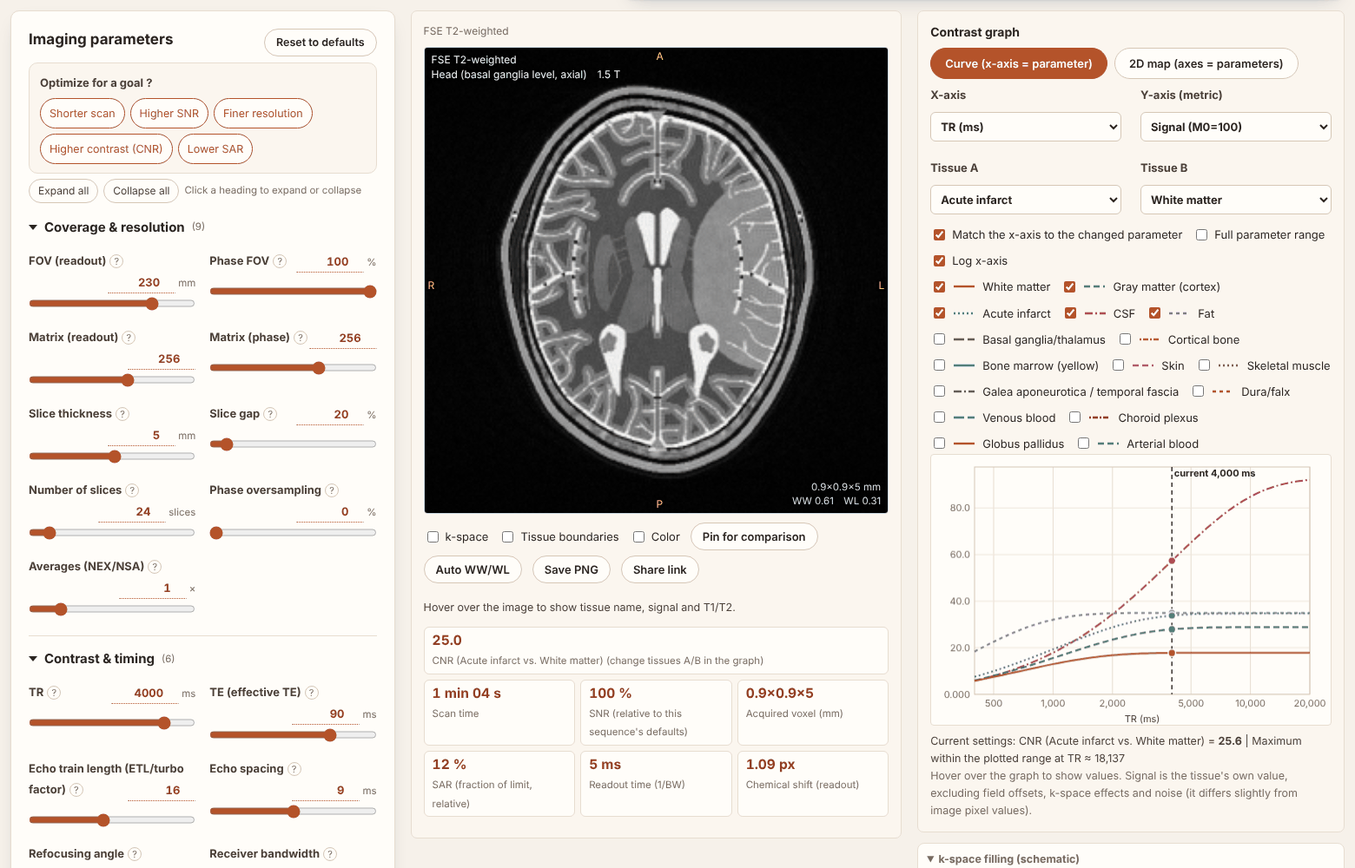
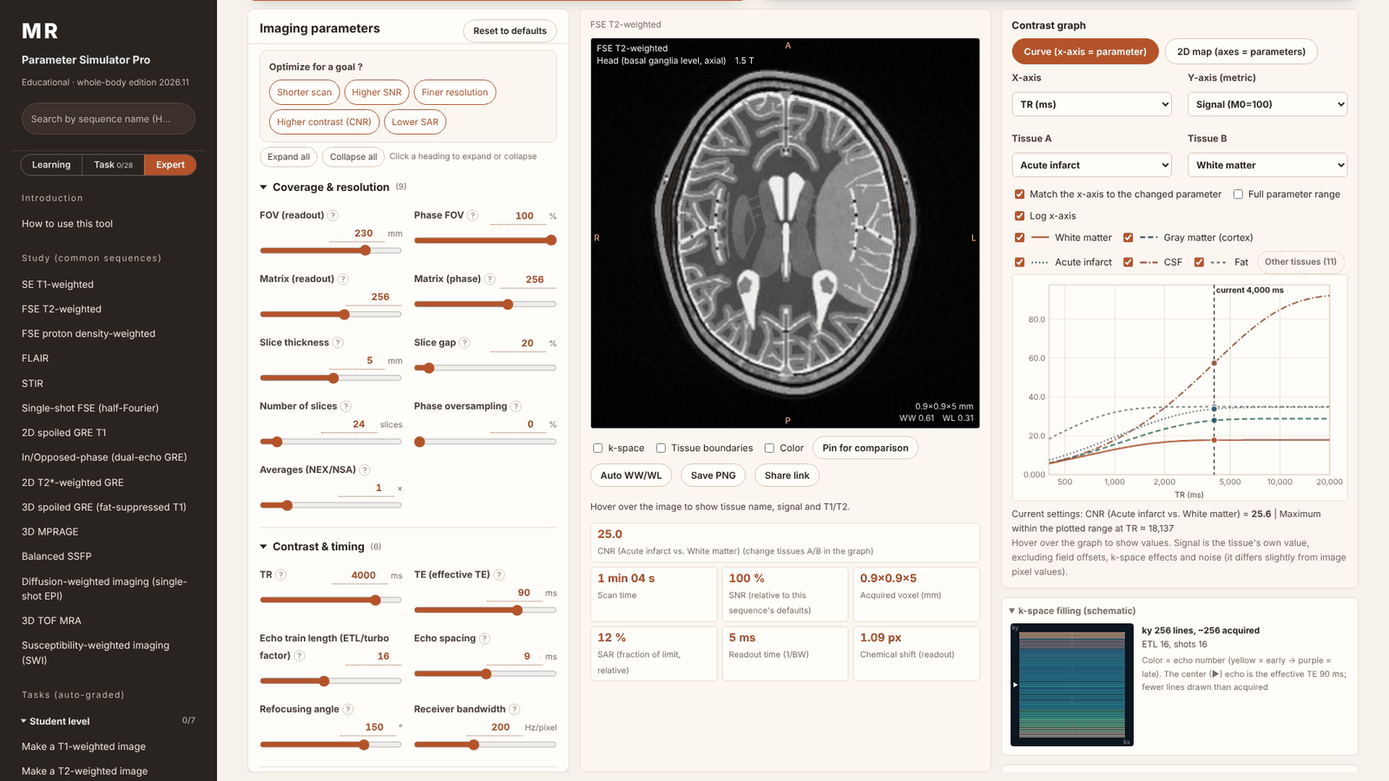
PC の画面を整理：パラメータ・画像・グラフを 1 画面のワークスペースに、上部をコンパクトに
- 幅 1200 px 以上・高さ 680 px 以上では、3 列が画面の高さぴったりに並び、列ごとにスクロール（右側の大きな空白をなくし、画像とグラフを常に表示）
- グラフの組織は選んだものだけ表示し、他は「他の組織（n件）」にたたむ
- 注意書きは見出しカードの下端に小さく、部位・病変カードの余白を詰める
- README のメイン画面のスクリーンショットを更新

Claude-Session: https://claude.ai/code/session_01BFr4Rqe7V4PB4mjcRbLySi

diff --git a/index.html b/index.html
@@ -735,6 +735,37 @@ body.mob .mlvsel button{font-size:11.5px;padding:3px 8px}
 .mqopts button.ng{text-decoration:line-through;opacity:.55}
 .mqfb{font-size:12.5px;margin:6px 0 2px} .mqfb.ok{color:var(--rt-ok,#17804a)} .mqfb.ng{color:var(--rt-danger,#b42318)}
 .sidebar .nav-btn .art{font-size:11px;margin-right:3px}
+
+/* ===== PC：ワークスペース（パラメータ・画像・グラフが 1 画面に収まり、列ごとにスクロール） ===== */
+#legend label.off{display:none} #legend.all label.off{display:inline-flex;opacity:.7}
+#legend .lgmore{border:1px dashed var(--rt-line-strong);background:transparent;border-radius:999px;padding:1px 10px;font-size:12px;color:var(--rt-muted);cursor:pointer}
+@media(min-width:1200px) and (min-height:680px){
+  body:not(.mob) .pro-grid{height:calc(100vh - 24px);align-items:stretch;gap:14px;scroll-margin-top:12px}
+  body:not(.mob) .pro-params{position:relative;height:100%;min-height:0;overflow:hidden;display:flex;flex-direction:column}
+  body:not(.mob) .pro-params>.sim-card{flex:1 1 auto;min-height:0;overflow:auto;margin:0}
+  body:not(.mob) .pro-out,body:not(.mob) .pro-chart{position:relative;top:auto;height:100%;max-height:none;min-height:0;overflow:auto}
+  body:not(.mob) .pro-params>.sim-card,body:not(.mob) .pro-out,body:not(.mob) .pro-chart{scrollbar-width:thin;scrollbar-color:var(--rt-line-strong) transparent}
+  body:not(.mob) .pro-out>.sim-output{min-height:100%;box-sizing:border-box}
+  body:not(.mob) .pro-params>.sim-card{padding:16px 16px 14px}
+  body:not(.mob) .pro-params>.sim-card>h2{position:sticky;top:-16px;z-index:3;background:var(--rt-surface);margin:-16px -16px 8px;padding:14px 16px 8px;border-bottom:1px solid var(--rt-line)}
+  body:not(.mob) .pro-out .sim-output{padding:12px 14px}
+  body:not(.mob) .pro-chart .sim-output{padding:12px 14px}
+  body:not(.mob) #v-sim>.notice{padding:5px 12px;margin-bottom:10px} body:not(.mob) #v-sim>.notice p{font-size:11.5px;line-height:1.5}
+  body:not(.mob) .pro-top>.sim-card,body:not(.mob) #v-sim>.chapter-header{box-sizing:border-box}
+}
+
+/* 注意書きは見出しカードの下端に小さく */
+.chapter-header .notice.inhero{background:transparent;border:0;border-top:1px solid rgba(255,255,255,.16);border-radius:0;padding:7px 0 0;margin:10px 0 0;box-shadow:none}
+.chapter-header .notice.inhero p{color:rgba(255,255,255,.72);font-size:11.5px;line-height:1.55;margin:0}
+.chapter-header .notice.inhero strong{color:rgba(255,255,255,.9)}
+@media(min-width:1200px){
+  body:not(.mob) #sim-setup .phlab{min-width:0;width:auto;text-align:left;font-size:11px;color:var(--rt-muted);margin-right:1px;font-weight:600}
+  body:not(.mob) #sim-setup .phchips{gap:4px 14px;margin:2px 0 6px}
+  body:not(.mob) #sim-setup .les{gap:1px 14px;margin:4px 0 0}
+  body:not(.mob) #sim-setup h2{margin-bottom:4px}
+  body:not(.mob) #v-sim .chapter-header{padding:13px 20px 11px}
+  body:not(.mob) #v-sim .chapter-header p{margin-bottom:2px}
+}
 #toast{position:fixed;left:50%;bottom:24px;transform:translateX(-50%) translateY(20px);background:var(--rt-ink,#1b2430);color:#fff;padding:9px 16px;border-radius:999px;font-size:13.5px;opacity:0;pointer-events:none;transition:all .2s;z-index:100}
 #toast.on{opacity:1;transform:translateX(-50%) translateY(0)}
 body.mob #toast{bottom:84px}
@@ -9462,9 +9493,10 @@ function buildChartUI(){ var box=$('#chartctl'); if(!box||!res) return; box.inne
   box.appendChild(cks);
   /* 曲線に出す組織 */
   chartColors();
-  if(chart.mode==='curve'){ var lg=el('div',{class:'vtools',id:'legend',style:'margin-top:4px'}); var shown=0; pr.forEach(function(x,i){ if(chart.hide[x.key]===undefined) chart.hide[x.key]=!(x.key===chart.A||x.key===chart.B||(shown<5&&!/^(skin|bone|dura|air|marrow_r|choroid|vessel_l)$/.test(x.key))); if(!chart.hide[x.key]) shown++; var lb=el('label'); var ci=el('input',{type:'checkbox'}); ci.checked=!chart.hide[x.key]; ci.onchange=function(){ chart.hide[x.key]=!ci.checked; drawChart(); }; lb.appendChild(ci); var sw=el('span',{class:'lgsw','aria-hidden':'true',html:'<svg width="26" height="8" viewBox="0 0 26 8"><line x1="1" y1="4" x2="25" y2="4" stroke="'+colorOf(x.key)+'" stroke-width="2.4" stroke-dasharray="'+dashOf(x.key).join(' ')+'"/></svg>'}); lb.appendChild(sw); lb.appendChild(document.createTextNode(x.n)); lg.appendChild(lb); }); box.appendChild(lg); }
+  if(chart.mode==='curve'){ var lg=el('div',{class:'vtools',id:'legend',style:'margin-top:4px'}); var shown=0; pr.forEach(function(x,i){ if(chart.hide[x.key]===undefined) chart.hide[x.key]=!(x.key===chart.A||x.key===chart.B||(shown<5&&!/^(skin|bone|dura|air|marrow_r|choroid|vessel_l)$/.test(x.key))); if(!chart.hide[x.key]) shown++; var lb=el('label',{class:chart.hide[x.key]?'off':''}); var ci=el('input',{type:'checkbox'}); ci.checked=!chart.hide[x.key]; ci.onchange=function(){ chart.hide[x.key]=!ci.checked; lb.className=ci.checked?'':'off'; drawChart(); }; lb.appendChild(ci); var sw=el('span',{class:'lgsw','aria-hidden':'true',html:'<svg width="26" height="8" viewBox="0 0 26 8"><line x1="1" y1="4" x2="25" y2="4" stroke="'+colorOf(x.key)+'" stroke-width="2.4" stroke-dasharray="'+dashOf(x.key).join(' ')+'"/></svg>'}); lb.appendChild(sw); lb.appendChild(document.createTextNode(x.n)); lg.appendChild(lb); }); var nOff=lg.querySelectorAll('label.off').length; if(nOff){ if(legendAll) lg.classList.add('all'); var tg=el('button',{type:'button',class:'lgmore','aria-expanded':String(!!legendAll)},legendAll?'他の組織をたたむ':'他の組織（'+nOff+'件）'); tg.onclick=function(){ legendAll=!legendAll; lg.classList.toggle('all',legendAll); tg.setAttribute('aria-expanded',String(legendAll)); tg.textContent=legendAll?'他の組織をたたむ':'他の組織（'+lg.querySelectorAll('label.off').length+'件）'; }; lg.appendChild(tg); } box.appendChild(lg); }
 }
 var DASHES=[[],[7,4],[2,3],[9,3,2,3],[4,4],[12,4],[2,2,6,2]]; function dashOf(k){ colorOf(k); return DASHES[colIdx[k]%DASHES.length]; }
+var legendAll=false;
 var colIdx={}; function colorOf(k){ if(colIdx[k]===undefined) colIdx[k]=Object.keys(colIdx).length; return PAL[colIdx[k]%PAL.length]; }
 function csel(name,opts,get,set){ var d=el('label',{class:'sim-control'}); d.appendChild(document.createTextNode(name)); var s=el('select'); opts.forEach(function(o){ var op=el('option',{value:o[0]},o[1]); if(String(get())===String(o[0])) op.selected=true; s.appendChild(op); }); s.onchange=function(){ set(s.value); }; d.appendChild(s); return d; }
 function chartSig(){ var c=JSON.parse(JSON.stringify(st)); [chart.xk,chart.mode==='map'?chart.yk:null].forEach(function(k){ if(!k) return; if(k==='b') c.p.bvals=''; else if(k==='dose') c.dose=0; else if(k==='B0') c.B0=0; else if(k==='hr') c.hr=0; else c.p[k]=0; }); return JSON.stringify(c)+'|'+cur+'|'+chart.mode+'|'+chart.full+'|'+JSON.stringify(chart.logk); }
@@ -9553,6 +9585,7 @@ function init(){ tables(); try{ if(window.top!==window) $('#save').hidden=true; 
   (function(){ var d=$('#psdbox'); if(d) d.addEventListener('toggle',function(){ if(d.open) psdDraw(); }); })();
   (function(){ var vt=document.querySelector('.pro-out .vtools'); if(!vt) return; var bc=el('button',{type:'button',id:'vchart','aria-pressed':'false'},'グラフを横に'); bc.onclick=toggleMini; vt.insertBefore(bc,vt.querySelector('#pin')); placeChart(); var b=el('button',{type:'button',id:'vmore','aria-expanded':'false'},'表示…'); b.onclick=function(){ var on=vt.classList.toggle('more'); b.setAttribute('aria-expanded',String(on)); }; vt.appendChild(b); })();
   (function(){ var w=$('#warns'); if(w) w.addEventListener('click',function(){ if(document.body.classList.contains('mob')) w.classList.toggle('open'); }); })();
+  (function(){ var n=document.querySelector('#v-sim>.notice'), h=document.querySelector('#v-sim>.chapter-header'); if(n&&h){ n.classList.add('inhero'); h.appendChild(n); } })();
   $('#share').onclick=function(){ syncHash(); var u=location.href; function done(){ toast('条件つきのリンクをコピーしました'); } try{ if(navigator.clipboard&&navigator.clipboard.writeText) navigator.clipboard.writeText(u).then(done,function(){ window.prompt('このリンクをコピーしてください',u); }); else window.prompt('このリンクをコピーしてください',u); }catch(e){ window.prompt('このリンクをコピーしてください',u); } };
   $('#save').onclick=function(){ var c=$('#stage canvas'); if(!c) return; var a=el('a',{href:c.toDataURL('image/png'),download:'mrisim_'+st.seq+'.png'}); document.body.appendChild(a); a.click(); a.remove(); };
   $('#menu').onclick=function(){ var v=$('#sidebar').classList.toggle('open'); $('#shade').classList.toggle('visible',v); $('#menu').setAttribute('aria-expanded',String(v)); };

diff --git a/zh.html b/zh.html
@@ -735,6 +735,37 @@ body.mob .mlvsel button{font-size:11.5px;padding:3px 8px}
 .mqopts button.ng{text-decoration:line-through;opacity:.55}
 .mqfb{font-size:12.5px;margin:6px 0 2px} .mqfb.ok{color:var(--rt-ok,#17804a)} .mqfb.ng{color:var(--rt-danger,#b42318)}
 .sidebar .nav-btn .art{font-size:11px;margin-right:3px}
+
+/* ===== PC：ワークスペース（パラメータ・画像・グラフが 1 画面に収まり、列ごとにスクロール） ===== */
+#legend label.off{display:none} #legend.all label.off{display:inline-flex;opacity:.7}
+#legend .lgmore{border:1px dashed var(--rt-line-strong);background:transparent;border-radius:999px;padding:1px 10px;font-size:12px;color:var(--rt-muted);cursor:pointer}
+@media(min-width:1200px) and (min-height:680px){
+  body:not(.mob) .pro-grid{height:calc(100vh - 24px);align-items:stretch;gap:14px;scroll-margin-top:12px}
+  body:not(.mob) .pro-params{position:relative;height:100%;min-height:0;overflow:hidden;display:flex;flex-direction:column}
+  body:not(.mob) .pro-params>.sim-card{flex:1 1 auto;min-height:0;overflow:auto;margin:0}
+  body:not(.mob) .pro-out,body:not(.mob) .pro-chart{position:relative;top:auto;height:100%;max-height:none;min-height:0;overflow:auto}
+  body:not(.mob) .pro-params>.sim-card,body:not(.mob) .pro-out,body:not(.mob) .pro-chart{scrollbar-width:thin;scrollbar-color:var(--rt-line-strong) transparent}
+  body:not(.mob) .pro-out>.sim-output{min-height:100%;box-sizing:border-box}
+  body:not(.mob) .pro-params>.sim-card{padding:16px 16px 14px}
+  body:not(.mob) .pro-params>.sim-card>h2{position:sticky;top:-16px;z-index:3;background:var(--rt-surface);margin:-16px -16px 8px;padding:14px 16px 8px;border-bottom:1px solid var(--rt-line)}
+  body:not(.mob) .pro-out .sim-output{padding:12px 14px}
+  body:not(.mob) .pro-chart .sim-output{padding:12px 14px}
+  body:not(.mob) #v-sim>.notice{padding:5px 12px;margin-bottom:10px} body:not(.mob) #v-sim>.notice p{font-size:11.5px;line-height:1.5}
+  body:not(.mob) .pro-top>.sim-card,body:not(.mob) #v-sim>.chapter-header{box-sizing:border-box}
+}
+
+/* 注意書きは見出しカードの下端に小さく */
+.chapter-header .notice.inhero{background:transparent;border:0;border-top:1px solid rgba(255,255,255,.16);border-radius:0;padding:7px 0 0;margin:10px 0 0;box-shadow:none}
+.chapter-header .notice.inhero p{color:rgba(255,255,255,.72);font-size:11.5px;line-height:1.55;margin:0}
+.chapter-header .notice.inhero strong{color:rgba(255,255,255,.9)}
+@media(min-width:1200px){
+  body:not(.mob) #sim-setup .phlab{min-width:0;width:auto;text-align:left;font-size:11px;color:var(--rt-muted);margin-right:1px;font-weight:600}
+  body:not(.mob) #sim-setup .phchips{gap:4px 14px;margin:2px 0 6px}
+  body:not(.mob) #sim-setup .les{gap:1px 14px;margin:4px 0 0}
+  body:not(.mob) #sim-setup h2{margin-bottom:4px}
+  body:not(.mob) #v-sim .chapter-header{padding:13px 20px 11px}
+  body:not(.mob) #v-sim .chapter-header p{margin-bottom:2px}
+}
 #toast{position:fixed;left:50%;bottom:24px;transform:translateX(-50%) translateY(20px);background:var(--rt-ink,#1b2430);color:#fff;padding:9px 16px;border-radius:999px;font-size:13.5px;opacity:0;pointer-events:none;transition:all .2s;z-index:100}
 #toast.on{opacity:1;transform:translateX(-50%) translateY(0)}
 body.mob #toast{bottom:84px}
@@ -9463,9 +9494,10 @@ function buildChartUI(){ var box=$('#chartctl'); if(!box||!res) return; box.inne
   box.appendChild(cks);
   /* 曲線に出す組織 */
   chartColors();
-  if(chart.mode==='curve'){ var lg=el('div',{class:'vtools',id:'legend',style:'margin-top:4px'}); var shown=0; pr.forEach(function(x,i){ if(chart.hide[x.key]===undefined) chart.hide[x.key]=!(x.key===chart.A||x.key===chart.B||(shown<5&&!/^(skin|bone|dura|air|marrow_r|choroid|vessel_l)$/.test(x.key))); if(!chart.hide[x.key]) shown++; var lb=el('label'); var ci=el('input',{type:'checkbox'}); ci.checked=!chart.hide[x.key]; ci.onchange=function(){ chart.hide[x.key]=!ci.checked; drawChart(); }; lb.appendChild(ci); var sw=el('span',{class:'lgsw','aria-hidden':'true',html:'<svg width="26" height="8" viewBox="0 0 26 8"><line x1="1" y1="4" x2="25" y2="4" stroke="'+colorOf(x.key)+'" stroke-width="2.4" stroke-dasharray="'+dashOf(x.key).join(' ')+'"/></svg>'}); lb.appendChild(sw); lb.appendChild(document.createTextNode(x.n)); lg.appendChild(lb); }); box.appendChild(lg); }
+  if(chart.mode==='curve'){ var lg=el('div',{class:'vtools',id:'legend',style:'margin-top:4px'}); var shown=0; pr.forEach(function(x,i){ if(chart.hide[x.key]===undefined) chart.hide[x.key]=!(x.key===chart.A||x.key===chart.B||(shown<5&&!/^(skin|bone|dura|air|marrow_r|choroid|vessel_l)$/.test(x.key))); if(!chart.hide[x.key]) shown++; var lb=el('label',{class:chart.hide[x.key]?'off':''}); var ci=el('input',{type:'checkbox'}); ci.checked=!chart.hide[x.key]; ci.onchange=function(){ chart.hide[x.key]=!ci.checked; lb.className=ci.checked?'':'off'; drawChart(); }; lb.appendChild(ci); var sw=el('span',{class:'lgsw','aria-hidden':'true',html:'<svg width="26" height="8" viewBox="0 0 26 8"><line x1="1" y1="4" x2="25" y2="4" stroke="'+colorOf(x.key)+'" stroke-width="2.4" stroke-dasharray="'+dashOf(x.key).join(' ')+'"/></svg>'}); lb.appendChild(sw); lb.appendChild(document.createTextNode(x.n)); lg.appendChild(lb); }); var nOff=lg.querySelectorAll('label.off').length; if(nOff){ if(legendAll) lg.classList.add('all'); var tg=el('button',{type:'button',class:'lgmore','aria-expanded':String(!!legendAll)},legendAll?'收起其他组织':'其他组织（'+nOff+'）'); tg.onclick=function(){ legendAll=!legendAll; lg.classList.toggle('all',legendAll); tg.setAttribute('aria-expanded',String(legendAll)); tg.textContent=legendAll?'收起其他组织':'其他组织（'+lg.querySelectorAll('label.off').length+'）'; }; lg.appendChild(tg); } box.appendChild(lg); }
 }
 var DASHES=[[],[7,4],[2,3],[9,3,2,3],[4,4],[12,4],[2,2,6,2]]; function dashOf(k){ colorOf(k); return DASHES[colIdx[k]%DASHES.length]; }
+var legendAll=false;
 var colIdx={}; function colorOf(k){ if(colIdx[k]===undefined) colIdx[k]=Object.keys(colIdx).length; return PAL[colIdx[k]%PAL.length]; }
 function csel(name,opts,get,set){ var d=el('label',{class:'sim-control'}); d.appendChild(document.createTextNode(name)); var s=el('select'); opts.forEach(function(o){ var op=el('option',{value:o[0]},o[1]); if(String(get())===String(o[0])) op.selected=true; s.appendChild(op); }); s.onchange=function(){ set(s.value); }; d.appendChild(s); return d; }
 function chartSig(){ var c=JSON.parse(JSON.stringify(st)); [chart.xk,chart.mode==='map'?chart.yk:null].forEach(function(k){ if(!k) return; if(k==='b') c.p.bvals=''; else if(k==='dose') c.dose=0; else if(k==='B0') c.B0=0; else if(k==='hr') c.hr=0; else c.p[k]=0; }); return JSON.stringify(c)+'|'+cur+'|'+chart.mode+'|'+chart.full+'|'+JSON.stringify(chart.logk); }
@@ -9554,6 +9586,7 @@ function init(){ tables(); try{ if(window.top!==window) $('#save').hidden=true; 
   (function(){ var d=$('#psdbox'); if(d) d.addEventListener('toggle',function(){ if(d.open) psdDraw(); }); })();
   (function(){ var vt=document.querySelector('.pro-out .vtools'); if(!vt) return; var bc=el('button',{type:'button',id:'vchart','aria-pressed':'false'},'图表放旁边'); bc.onclick=toggleMini; vt.insertBefore(bc,vt.querySelector('#pin')); placeChart(); var b=el('button',{type:'button',id:'vmore','aria-expanded':'false'},'显示…'); b.onclick=function(){ var on=vt.classList.toggle('more'); b.setAttribute('aria-expanded',String(on)); }; vt.appendChild(b); })();
   (function(){ var w=$('#warns'); if(w) w.addEventListener('click',function(){ if(document.body.classList.contains('mob')) w.classList.toggle('open'); }); })();
+  (function(){ var n=document.querySelector('#v-sim>.notice'), h=document.querySelector('#v-sim>.chapter-header'); if(n&&h){ n.classList.add('inhero'); h.appendChild(n); } })();
   $('#share').onclick=function(){ syncHash(); var u=location.href; function done(){ toast('已复制含当前条件的链接'); } try{ if(navigator.clipboard&&navigator.clipboard.writeText) navigator.clipboard.writeText(u).then(done,function(){ window.prompt('请复制此链接',u); }); else window.prompt('请复制此链接',u); }catch(e){ window.prompt('请复制此链接',u); } };
   $('#save').onclick=function(){ var c=$('#stage canvas'); if(!c) return; var a=el('a',{href:c.toDataURL('image/png'),download:'mrisim_'+st.seq+'.png'}); document.body.appendChild(a); a.click(); a.remove(); };
   $('#menu').onclick=function(){ var v=$('#sidebar').classList.toggle('open'); $('#shade').classList.toggle('visible',v); $('#menu').setAttribute('aria-expanded',String(v)); };

diff --git a/en.html b/en.html
@@ -735,6 +735,37 @@ body.mob .mlvsel button{font-size:11.5px;padding:3px 8px}
 .mqopts button.ng{text-decoration:line-through;opacity:.55}
 .mqfb{font-size:12.5px;margin:6px 0 2px} .mqfb.ok{color:var(--rt-ok,#17804a)} .mqfb.ng{color:var(--rt-danger,#b42318)}
 .sidebar .nav-btn .art{font-size:11px;margin-right:3px}
+
+/* ===== PC：ワークスペース（パラメータ・画像・グラフが 1 画面に収まり、列ごとにスクロール） ===== */
+#legend label.off{display:none} #legend.all label.off{display:inline-flex;opacity:.7}
+#legend .lgmore{border:1px dashed var(--rt-line-strong);background:transparent;border-radius:999px;padding:1px 10px;font-size:12px;color:var(--rt-muted);cursor:pointer}
+@media(min-width:1200px) and (min-height:680px){
+  body:not(.mob) .pro-grid{height:calc(100vh - 24px);align-items:stretch;gap:14px;scroll-margin-top:12px}
+  body:not(.mob) .pro-params{position:relative;height:100%;min-height:0;overflow:hidden;display:flex;flex-direction:column}
+  body:not(.mob) .pro-params>.sim-card{flex:1 1 auto;min-height:0;overflow:auto;margin:0}
+  body:not(.mob) .pro-out,body:not(.mob) .pro-chart{position:relative;top:auto;height:100%;max-height:none;min-height:0;overflow:auto}
+  body:not(.mob) .pro-params>.sim-card,body:not(.mob) .pro-out,body:not(.mob) .pro-chart{scrollbar-width:thin;scrollbar-color:var(--rt-line-strong) transparent}
+  body:not(.mob) .pro-out>.sim-output{min-height:100%;box-sizing:border-box}
+  body:not(.mob) .pro-params>.sim-card{padding:16px 16px 14px}
+  body:not(.mob) .pro-params>.sim-card>h2{position:sticky;top:-16px;z-index:3;background:var(--rt-surface);margin:-16px -16px 8px;padding:14px 16px 8px;border-bottom:1px solid var(--rt-line)}
+  body:not(.mob) .pro-out .sim-output{padding:12px 14px}
+  body:not(.mob) .pro-chart .sim-output{padding:12px 14px}
+  body:not(.mob) #v-sim>.notice{padding:5px 12px;margin-bottom:10px} body:not(.mob) #v-sim>.notice p{font-size:11.5px;line-height:1.5}
+  body:not(.mob) .pro-top>.sim-card,body:not(.mob) #v-sim>.chapter-header{box-sizing:border-box}
+}
+
+/* 注意書きは見出しカードの下端に小さく */
+.chapter-header .notice.inhero{background:transparent;border:0;border-top:1px solid rgba(255,255,255,.16);border-radius:0;padding:7px 0 0;margin:10px 0 0;box-shadow:none}
+.chapter-header .notice.inhero p{color:rgba(255,255,255,.72);font-size:11.5px;line-height:1.55;margin:0}
+.chapter-header .notice.inhero strong{color:rgba(255,255,255,.9)}
+@media(min-width:1200px){
+  body:not(.mob) #sim-setup .phlab{min-width:0;width:auto;text-align:left;font-size:11px;color:var(--rt-muted);margin-right:1px;font-weight:600}
+  body:not(.mob) #sim-setup .phchips{gap:4px 14px;margin:2px 0 6px}
+  body:not(.mob) #sim-setup .les{gap:1px 14px;margin:4px 0 0}
+  body:not(.mob) #sim-setup h2{margin-bottom:4px}
+  body:not(.mob) #v-sim .chapter-header{padding:13px 20px 11px}
+  body:not(.mob) #v-sim .chapter-header p{margin-bottom:2px}
+}
 #toast{position:fixed;left:50%;bottom:24px;transform:translateX(-50%) translateY(20px);background:var(--rt-ink,#1b2430);color:#fff;padding:9px 16px;border-radius:999px;font-size:13.5px;opacity:0;pointer-events:none;transition:all .2s;z-index:100}
 #toast.on{opacity:1;transform:translateX(-50%) translateY(0)}
 body.mob #toast{bottom:84px}
@@ -9463,9 +9494,10 @@ function buildChartUI(){ var box=$('#chartctl'); if(!box||!res) return; box.inne
   box.appendChild(cks);
   /* 曲線に出す組織 */
   chartColors();
-  if(chart.mode==='curve'){ var lg=el('div',{class:'vtools',id:'legend',style:'margin-top:4px'}); var shown=0; pr.forEach(function(x,i){ if(chart.hide[x.key]===undefined) chart.hide[x.key]=!(x.key===chart.A||x.key===chart.B||(shown<5&&!/^(skin|bone|dura|air|marrow_r|choroid|vessel_l)$/.test(x.key))); if(!chart.hide[x.key]) shown++; var lb=el('label'); var ci=el('input',{type:'checkbox'}); ci.checked=!chart.hide[x.key]; ci.onchange=function(){ chart.hide[x.key]=!ci.checked; drawChart(); }; lb.appendChild(ci); var sw=el('span',{class:'lgsw','aria-hidden':'true',html:'<svg width="26" height="8" viewBox="0 0 26 8"><line x1="1" y1="4" x2="25" y2="4" stroke="'+colorOf(x.key)+'" stroke-width="2.4" stroke-dasharray="'+dashOf(x.key).join(' ')+'"/></svg>'}); lb.appendChild(sw); lb.appendChild(document.createTextNode(x.n)); lg.appendChild(lb); }); box.appendChild(lg); }
+  if(chart.mode==='curve'){ var lg=el('div',{class:'vtools',id:'legend',style:'margin-top:4px'}); var shown=0; pr.forEach(function(x,i){ if(chart.hide[x.key]===undefined) chart.hide[x.key]=!(x.key===chart.A||x.key===chart.B||(shown<5&&!/^(skin|bone|dura|air|marrow_r|choroid|vessel_l)$/.test(x.key))); if(!chart.hide[x.key]) shown++; var lb=el('label',{class:chart.hide[x.key]?'off':''}); var ci=el('input',{type:'checkbox'}); ci.checked=!chart.hide[x.key]; ci.onchange=function(){ chart.hide[x.key]=!ci.checked; lb.className=ci.checked?'':'off'; drawChart(); }; lb.appendChild(ci); var sw=el('span',{class:'lgsw','aria-hidden':'true',html:'<svg width="26" height="8" viewBox="0 0 26 8"><line x1="1" y1="4" x2="25" y2="4" stroke="'+colorOf(x.key)+'" stroke-width="2.4" stroke-dasharray="'+dashOf(x.key).join(' ')+'"/></svg>'}); lb.appendChild(sw); lb.appendChild(document.createTextNode(x.n)); lg.appendChild(lb); }); var nOff=lg.querySelectorAll('label.off').length; if(nOff){ if(legendAll) lg.classList.add('all'); var tg=el('button',{type:'button',class:'lgmore','aria-expanded':String(!!legendAll)},legendAll?'Hide other tissues':'Other tissues ('+nOff+')'); tg.onclick=function(){ legendAll=!legendAll; lg.classList.toggle('all',legendAll); tg.setAttribute('aria-expanded',String(legendAll)); tg.textContent=legendAll?'Hide other tissues':'Other tissues ('+lg.querySelectorAll('label.off').length+')'; }; lg.appendChild(tg); } box.appendChild(lg); }
 }
 var DASHES=[[],[7,4],[2,3],[9,3,2,3],[4,4],[12,4],[2,2,6,2]]; function dashOf(k){ colorOf(k); return DASHES[colIdx[k]%DASHES.length]; }
+var legendAll=false;
 var colIdx={}; function colorOf(k){ if(colIdx[k]===undefined) colIdx[k]=Object.keys(colIdx).length; return PAL[colIdx[k]%PAL.length]; }
 function csel(name,opts,get,set){ var d=el('label',{class:'sim-control'}); d.appendChild(document.createTextNode(name)); var s=el('select'); opts.forEach(function(o){ var op=el('option',{value:o[0]},o[1]); if(String(get())===String(o[0])) op.selected=true; s.appendChild(op); }); s.onchange=function(){ set(s.value); }; d.appendChild(s); return d; }
 function chartSig(){ var c=JSON.parse(JSON.stringify(st)); [chart.xk,chart.mode==='map'?chart.yk:null].forEach(function(k){ if(!k) return; if(k==='b') c.p.bvals=''; else if(k==='dose') c.dose=0; else if(k==='B0') c.B0=0; else if(k==='hr') c.hr=0; else c.p[k]=0; }); return JSON.stringify(c)+'|'+cur+'|'+chart.mode+'|'+chart.full+'|'+JSON.stringify(chart.logk); }
@@ -9554,6 +9586,7 @@ function init(){ tables(); try{ if(window.top!==window) $('#save').hidden=true; 
   (function(){ var d=$('#psdbox'); if(d) d.addEventListener('toggle',function(){ if(d.open) psdDraw(); }); })();
   (function(){ var vt=document.querySelector('.pro-out .vtools'); if(!vt) return; var bc=el('button',{type:'button',id:'vchart','aria-pressed':'false'},'Chart beside'); bc.onclick=toggleMini; vt.insertBefore(bc,vt.querySelector('#pin')); placeChart(); var b=el('button',{type:'button',id:'vmore','aria-expanded':'false'},'View…'); b.onclick=function(){ var on=vt.classList.toggle('more'); b.setAttribute('aria-expanded',String(on)); }; vt.appendChild(b); })();
   (function(){ var w=$('#warns'); if(w) w.addEventListener('click',function(){ if(document.body.classList.contains('mob')) w.classList.toggle('open'); }); })();
+  (function(){ var n=document.querySelector('#v-sim>.notice'), h=document.querySelector('#v-sim>.chapter-header'); if(n&&h){ n.classList.add('inhero'); h.appendChild(n); } })();
   $('#share').onclick=function(){ syncHash(); var u=location.href; function done(){ toast('Link with current settings copied'); } try{ if(navigator.clipboard&&navigator.clipboard.writeText) navigator.clipboard.writeText(u).then(done,function(){ window.prompt('Copy this link',u); }); else window.prompt('Copy this link',u); }catch(e){ window.prompt('Copy this link',u); } };
   $('#save').onclick=function(){ var c=$('#stage canvas'); if(!c) return; var a=el('a',{href:c.toDataURL('image/png'),download:'mrisim_'+st.seq+'.png'}); document.body.appendChild(a); a.click(); a.remove(); };
   $('#menu').onclick=function(){ var v=$('#sidebar').classList.toggle('open'); $('#shade').classList.toggle('visible',v); $('#menu').setAttribute('aria-expanded',String(v)); };

diff --git a/src/ui.js b/src/ui.js
@@ -304,9 +304,10 @@ function buildChartUI(){ var box=$('#chartctl'); if(!box||!res) return; box.inne
   box.appendChild(cks);
   /* 曲線に出す組織 */
   chartColors();
-  if(chart.mode==='curve'){ var lg=el('div',{class:'vtools',id:'legend',style:'margin-top:4px'}); var shown=0; pr.forEach(function(x,i){ if(chart.hide[x.key]===undefined) chart.hide[x.key]=!(x.key===chart.A||x.key===chart.B||(shown<5&&!/^(skin|bone|dura|air|marrow_r|choroid|vessel_l)$/.test(x.key))); if(!chart.hide[x.key]) shown++; var lb=el('label'); var ci=el('input',{type:'checkbox'}); ci.checked=!chart.hide[x.key]; ci.onchange=function(){ chart.hide[x.key]=!ci.checked; drawChart(); }; lb.appendChild(ci); var sw=el('span',{class:'lgsw','aria-hidden':'true',html:'<svg width="26" height="8" viewBox="0 0 26 8"><line x1="1" y1="4" x2="25" y2="4" stroke="'+colorOf(x.key)+'" stroke-width="2.4" stroke-dasharray="'+dashOf(x.key).join(' ')+'"/></svg>'}); lb.appendChild(sw); lb.appendChild(document.createTextNode(x.n)); lg.appendChild(lb); }); box.appendChild(lg); }
+  if(chart.mode==='curve'){ var lg=el('div',{class:'vtools',id:'legend',style:'margin-top:4px'}); var shown=0; pr.forEach(function(x,i){ if(chart.hide[x.key]===undefined) chart.hide[x.key]=!(x.key===chart.A||x.key===chart.B||(shown<5&&!/^(skin|bone|dura|air|marrow_r|choroid|vessel_l)$/.test(x.key))); if(!chart.hide[x.key]) shown++; var lb=el('label',{class:chart.hide[x.key]?'off':''}); var ci=el('input',{type:'checkbox'}); ci.checked=!chart.hide[x.key]; ci.onchange=function(){ chart.hide[x.key]=!ci.checked; lb.className=ci.checked?'':'off'; drawChart(); }; lb.appendChild(ci); var sw=el('span',{class:'lgsw','aria-hidden':'true',html:'<svg width="26" height="8" viewBox="0 0 26 8"><line x1="1" y1="4" x2="25" y2="4" stroke="'+colorOf(x.key)+'" stroke-width="2.4" stroke-dasharray="'+dashOf(x.key).join(' ')+'"/></svg>'}); lb.appendChild(sw); lb.appendChild(document.createTextNode(x.n)); lg.appendChild(lb); }); var nOff=lg.querySelectorAll('label.off').length; if(nOff){ if(legendAll) lg.classList.add('all'); var tg=el('button',{type:'button',class:'lgmore','aria-expanded':String(!!legendAll)},legendAll?'他の組織をたたむ':'他の組織（'+nOff+'件）'); tg.onclick=function(){ legendAll=!legendAll; lg.classList.toggle('all',legendAll); tg.setAttribute('aria-expanded',String(legendAll)); tg.textContent=legendAll?'他の組織をたたむ':'他の組織（'+lg.querySelectorAll('label.off').length+'件）'; }; lg.appendChild(tg); } box.appendChild(lg); }
 }
 var DASHES=[[],[7,4],[2,3],[9,3,2,3],[4,4],[12,4],[2,2,6,2]]; function dashOf(k){ colorOf(k); return DASHES[colIdx[k]%DASHES.length]; }
+var legendAll=false;
 var colIdx={}; function colorOf(k){ if(colIdx[k]===undefined) colIdx[k]=Object.keys(colIdx).length; return PAL[colIdx[k]%PAL.length]; }
 function csel(name,opts,get,set){ var d=el('label',{class:'sim-control'}); d.appendChild(document.createTextNode(name)); var s=el('select'); opts.forEach(function(o){ var op=el('option',{value:o[0]},o[1]); if(String(get())===String(o[0])) op.selected=true; s.appendChild(op); }); s.onchange=function(){ set(s.value); }; d.appendChild(s); return d; }
 function chartSig(){ var c=JSON.parse(JSON.stringify(st)); [chart.xk,chart.mode==='map'?chart.yk:null].forEach(function(k){ if(!k) return; if(k==='b') c.p.bvals=''; else if(k==='dose') c.dose=0; else if(k==='B0') c.B0=0; else if(k==='hr') c.hr=0; else c.p[k]=0; }); return JSON.stringify(c)+'|'+cur+'|'+chart.mode+'|'+chart.full+'|'+JSON.stringify(chart.logk); }
@@ -395,6 +396,7 @@ function init(){ tables(); try{ if(window.top!==window) $('#save').hidden=true; 
   (function(){ var d=$('#psdbox'); if(d) d.addEventListener('toggle',function(){ if(d.open) psdDraw(); }); })();
   (function(){ var vt=document.querySelector('.pro-out .vtools'); if(!vt) return; var bc=el('button',{type:'button',id:'vchart','aria-pressed':'false'},'グラフを横に'); bc.onclick=toggleMini; vt.insertBefore(bc,vt.querySelector('#pin')); placeChart(); var b=el('button',{type:'button',id:'vmore','aria-expanded':'false'},'表示…'); b.onclick=function(){ var on=vt.classList.toggle('more'); b.setAttribute('aria-expanded',String(on)); }; vt.appendChild(b); })();
   (function(){ var w=$('#warns'); if(w) w.addEventListener('click',function(){ if(document.body.classList.contains('mob')) w.classList.toggle('open'); }); })();
+  (function(){ var n=document.querySelector('#v-sim>.notice'), h=document.querySelector('#v-sim>.chapter-header'); if(n&&h){ n.classList.add('inhero'); h.appendChild(n); } })();
   $('#share').onclick=function(){ syncHash(); var u=location.href; function done(){ toast('条件つきのリンクをコピーしました'); } try{ if(navigator.clipboard&&navigator.clipboard.writeText) navigator.clipboard.writeText(u).then(done,function(){ window.prompt('このリンクをコピーしてください',u); }); else window.prompt('このリンクをコピーしてください',u); }catch(e){ window.prompt('このリンクをコピーしてください',u); } };
   $('#save').onclick=function(){ var c=$('#stage canvas'); if(!c) return; var a=el('a',{href:c.toDataURL('image/png'),download:'mrisim_'+st.seq+'.png'}); document.body.appendChild(a); a.click(); a.remove(); };
   $('#menu').onclick=function(){ var v=$('#sidebar').classList.toggle('open'); $('#shade').classList.toggle('visible',v); $('#menu').setAttribute('aria-expanded',String(v)); };

diff --git a/src/ui.html b/src/ui.html
@@ -327,6 +327,37 @@ body.mob .mlvsel button{font-size:11.5px;padding:3px 8px}
 .mqopts button.ng{text-decoration:line-through;opacity:.55}
 .mqfb{font-size:12.5px;margin:6px 0 2px} .mqfb.ok{color:var(--rt-ok,#17804a)} .mqfb.ng{color:var(--rt-danger,#b42318)}
 .sidebar .nav-btn .art{font-size:11px;margin-right:3px}
+
+/* ===== PC：ワークスペース（パラメータ・画像・グラフが 1 画面に収まり、列ごとにスクロール） ===== */
+#legend label.off{display:none} #legend.all label.off{display:inline-flex;opacity:.7}
+#legend .lgmore{border:1px dashed var(--rt-line-strong);background:transparent;border-radius:999px;padding:1px 10px;font-size:12px;color:var(--rt-muted);cursor:pointer}
+@media(min-width:1200px) and (min-height:680px){
+  body:not(.mob) .pro-grid{height:calc(100vh - 24px);align-items:stretch;gap:14px;scroll-margin-top:12px}
+  body:not(.mob) .pro-params{position:relative;height:100%;min-height:0;overflow:hidden;display:flex;flex-direction:column}
+  body:not(.mob) .pro-params>.sim-card{flex:1 1 auto;min-height:0;overflow:auto;margin:0}
+  body:not(.mob) .pro-out,body:not(.mob) .pro-chart{position:relative;top:auto;height:100%;max-height:none;min-height:0;overflow:auto}
+  body:not(.mob) .pro-params>.sim-card,body:not(.mob) .pro-out,body:not(.mob) .pro-chart{scrollbar-width:thin;scrollbar-color:var(--rt-line-strong) transparent}
+  body:not(.mob) .pro-out>.sim-output{min-height:100%;box-sizing:border-box}
+  body:not(.mob) .pro-params>.sim-card{padding:16px 16px 14px}
+  body:not(.mob) .pro-params>.sim-card>h2{position:sticky;top:-16px;z-index:3;background:var(--rt-surface);margin:-16px -16px 8px;padding:14px 16px 8px;border-bottom:1px solid var(--rt-line)}
+  body:not(.mob) .pro-out .sim-output{padding:12px 14px}
+  body:not(.mob) .pro-chart .sim-output{padding:12px 14px}
+  body:not(.mob) #v-sim>.notice{padding:5px 12px;margin-bottom:10px} body:not(.mob) #v-sim>.notice p{font-size:11.5px;line-height:1.5}
+  body:not(.mob) .pro-top>.sim-card,body:not(.mob) #v-sim>.chapter-header{box-sizing:border-box}
+}
+
+/* 注意書きは見出しカードの下端に小さく */
+.chapter-header .notice.inhero{background:transparent;border:0;border-top:1px solid rgba(255,255,255,.16);border-radius:0;padding:7px 0 0;margin:10px 0 0;box-shadow:none}
+.chapter-header .notice.inhero p{color:rgba(255,255,255,.72);font-size:11.5px;line-height:1.55;margin:0}
+.chapter-header .notice.inhero strong{color:rgba(255,255,255,.9)}
+@media(min-width:1200px){
+  body:not(.mob) #sim-setup .phlab{min-width:0;width:auto;text-align:left;font-size:11px;color:var(--rt-muted);margin-right:1px;font-weight:600}
+  body:not(.mob) #sim-setup .phchips{gap:4px 14px;margin:2px 0 6px}
+  body:not(.mob) #sim-setup .les{gap:1px 14px;margin:4px 0 0}
+  body:not(.mob) #sim-setup h2{margin-bottom:4px}
+  body:not(.mob) #v-sim .chapter-header{padding:13px 20px 11px}
+  body:not(.mob) #v-sim .chapter-header p{margin-bottom:2px}
+}
 #toast{position:fixed;left:50%;bottom:24px;transform:translateX(-50%) translateY(20px);background:var(--rt-ink,#1b2430);color:#fff;padding:9px 16px;border-radius:999px;font-size:13.5px;opacity:0;pointer-events:none;transition:all .2s;z-index:100}
 #toast.on{opacity:1;transform:translateX(-50%) translateY(0)}
 body.mob #toast{bottom:84px}
